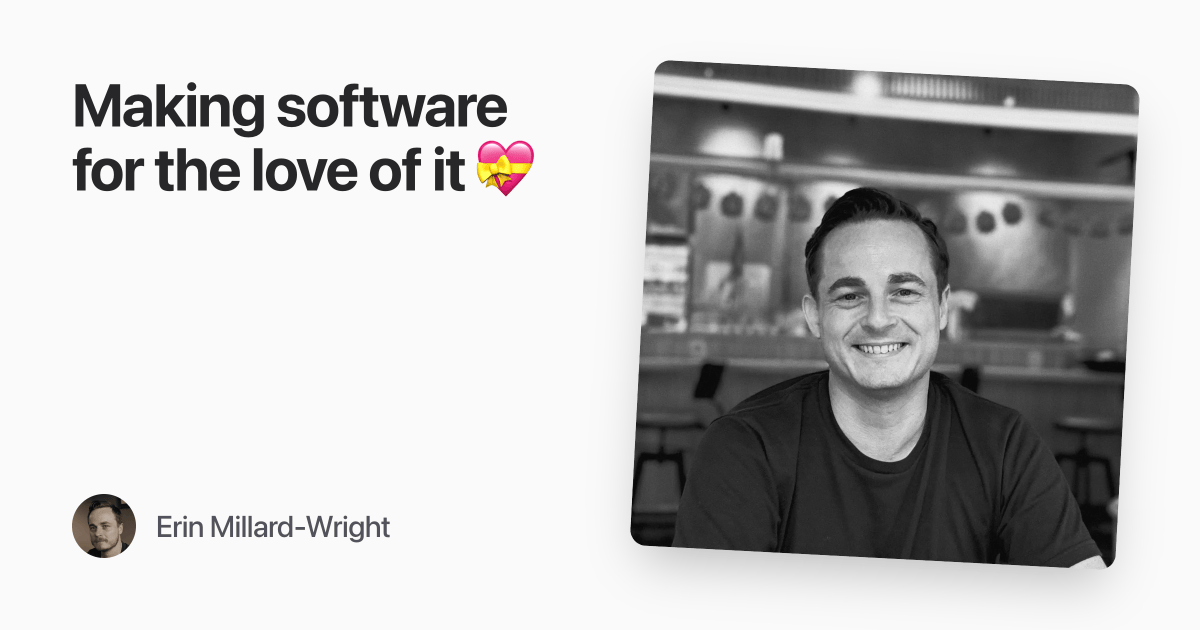
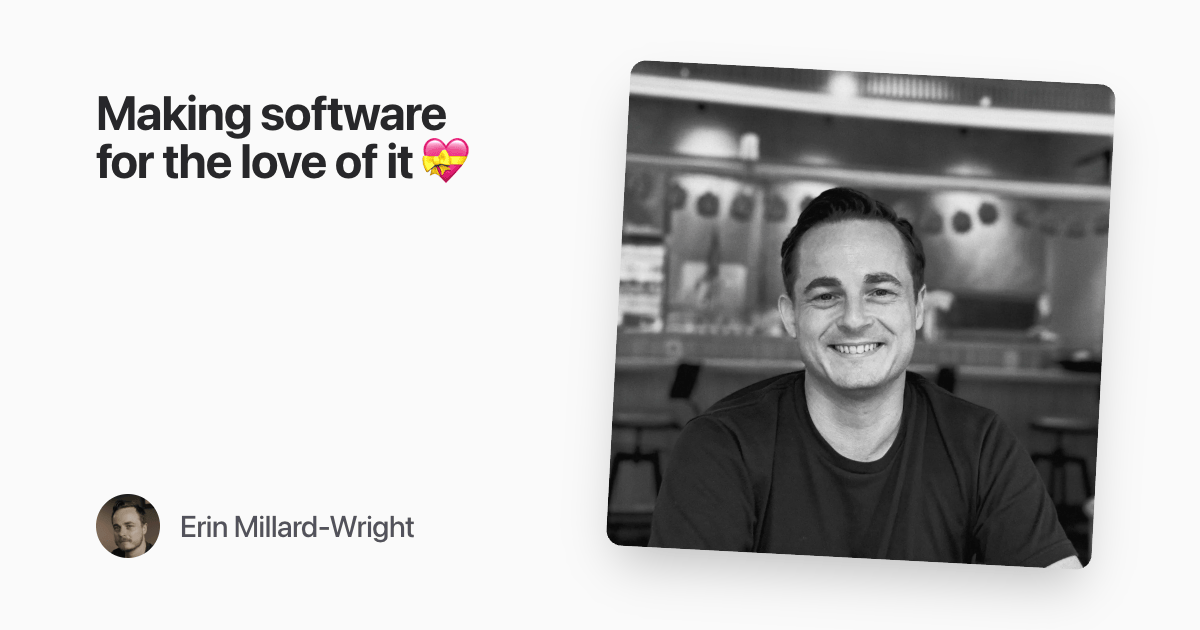
Adjust social image layout

diff --git a/src/app/social-image/page.tsx b/src/app/social-image/page.tsx
@@ -7,9 +7,9 @@ export default function SocialImagePage() {
   if (process.env.NODE_ENV !== "development") notFound();
 
   return (
-    <div className="flex h-[100vh] items-stretch justify-between overflow-clip px-18 py-18">
-      <div className="flex flex-col justify-between">
-        <h1 className="text-6xl/16 font-bold tracking-tight text-zinc-800">
+    <div className="flex h-[100vh] items-stretch justify-between gap-24 overflow-clip px-24 py-18">
+      <div className="mt-4 flex flex-col justify-between">
+        <h1 className="text-5xl/12 font-bold tracking-tight text-zinc-800">
           Making software
           <br />
           for the love of it 💝
@@ -29,11 +29,11 @@ export default function SocialImagePage() {
         </div>
       </div>
 
-      <div className="flex-shrink-0">
+      <div>
         <Image
           src={portraitImage}
           alt=""
-          className="aspect-square size-full rotate-3 rounded-2xl bg-zinc-800 object-cover shadow-2xl"
+          className="h-full w-auto rotate-3 rounded-2xl bg-zinc-800 object-cover shadow-2xl"
           priority
         />
       </div>
